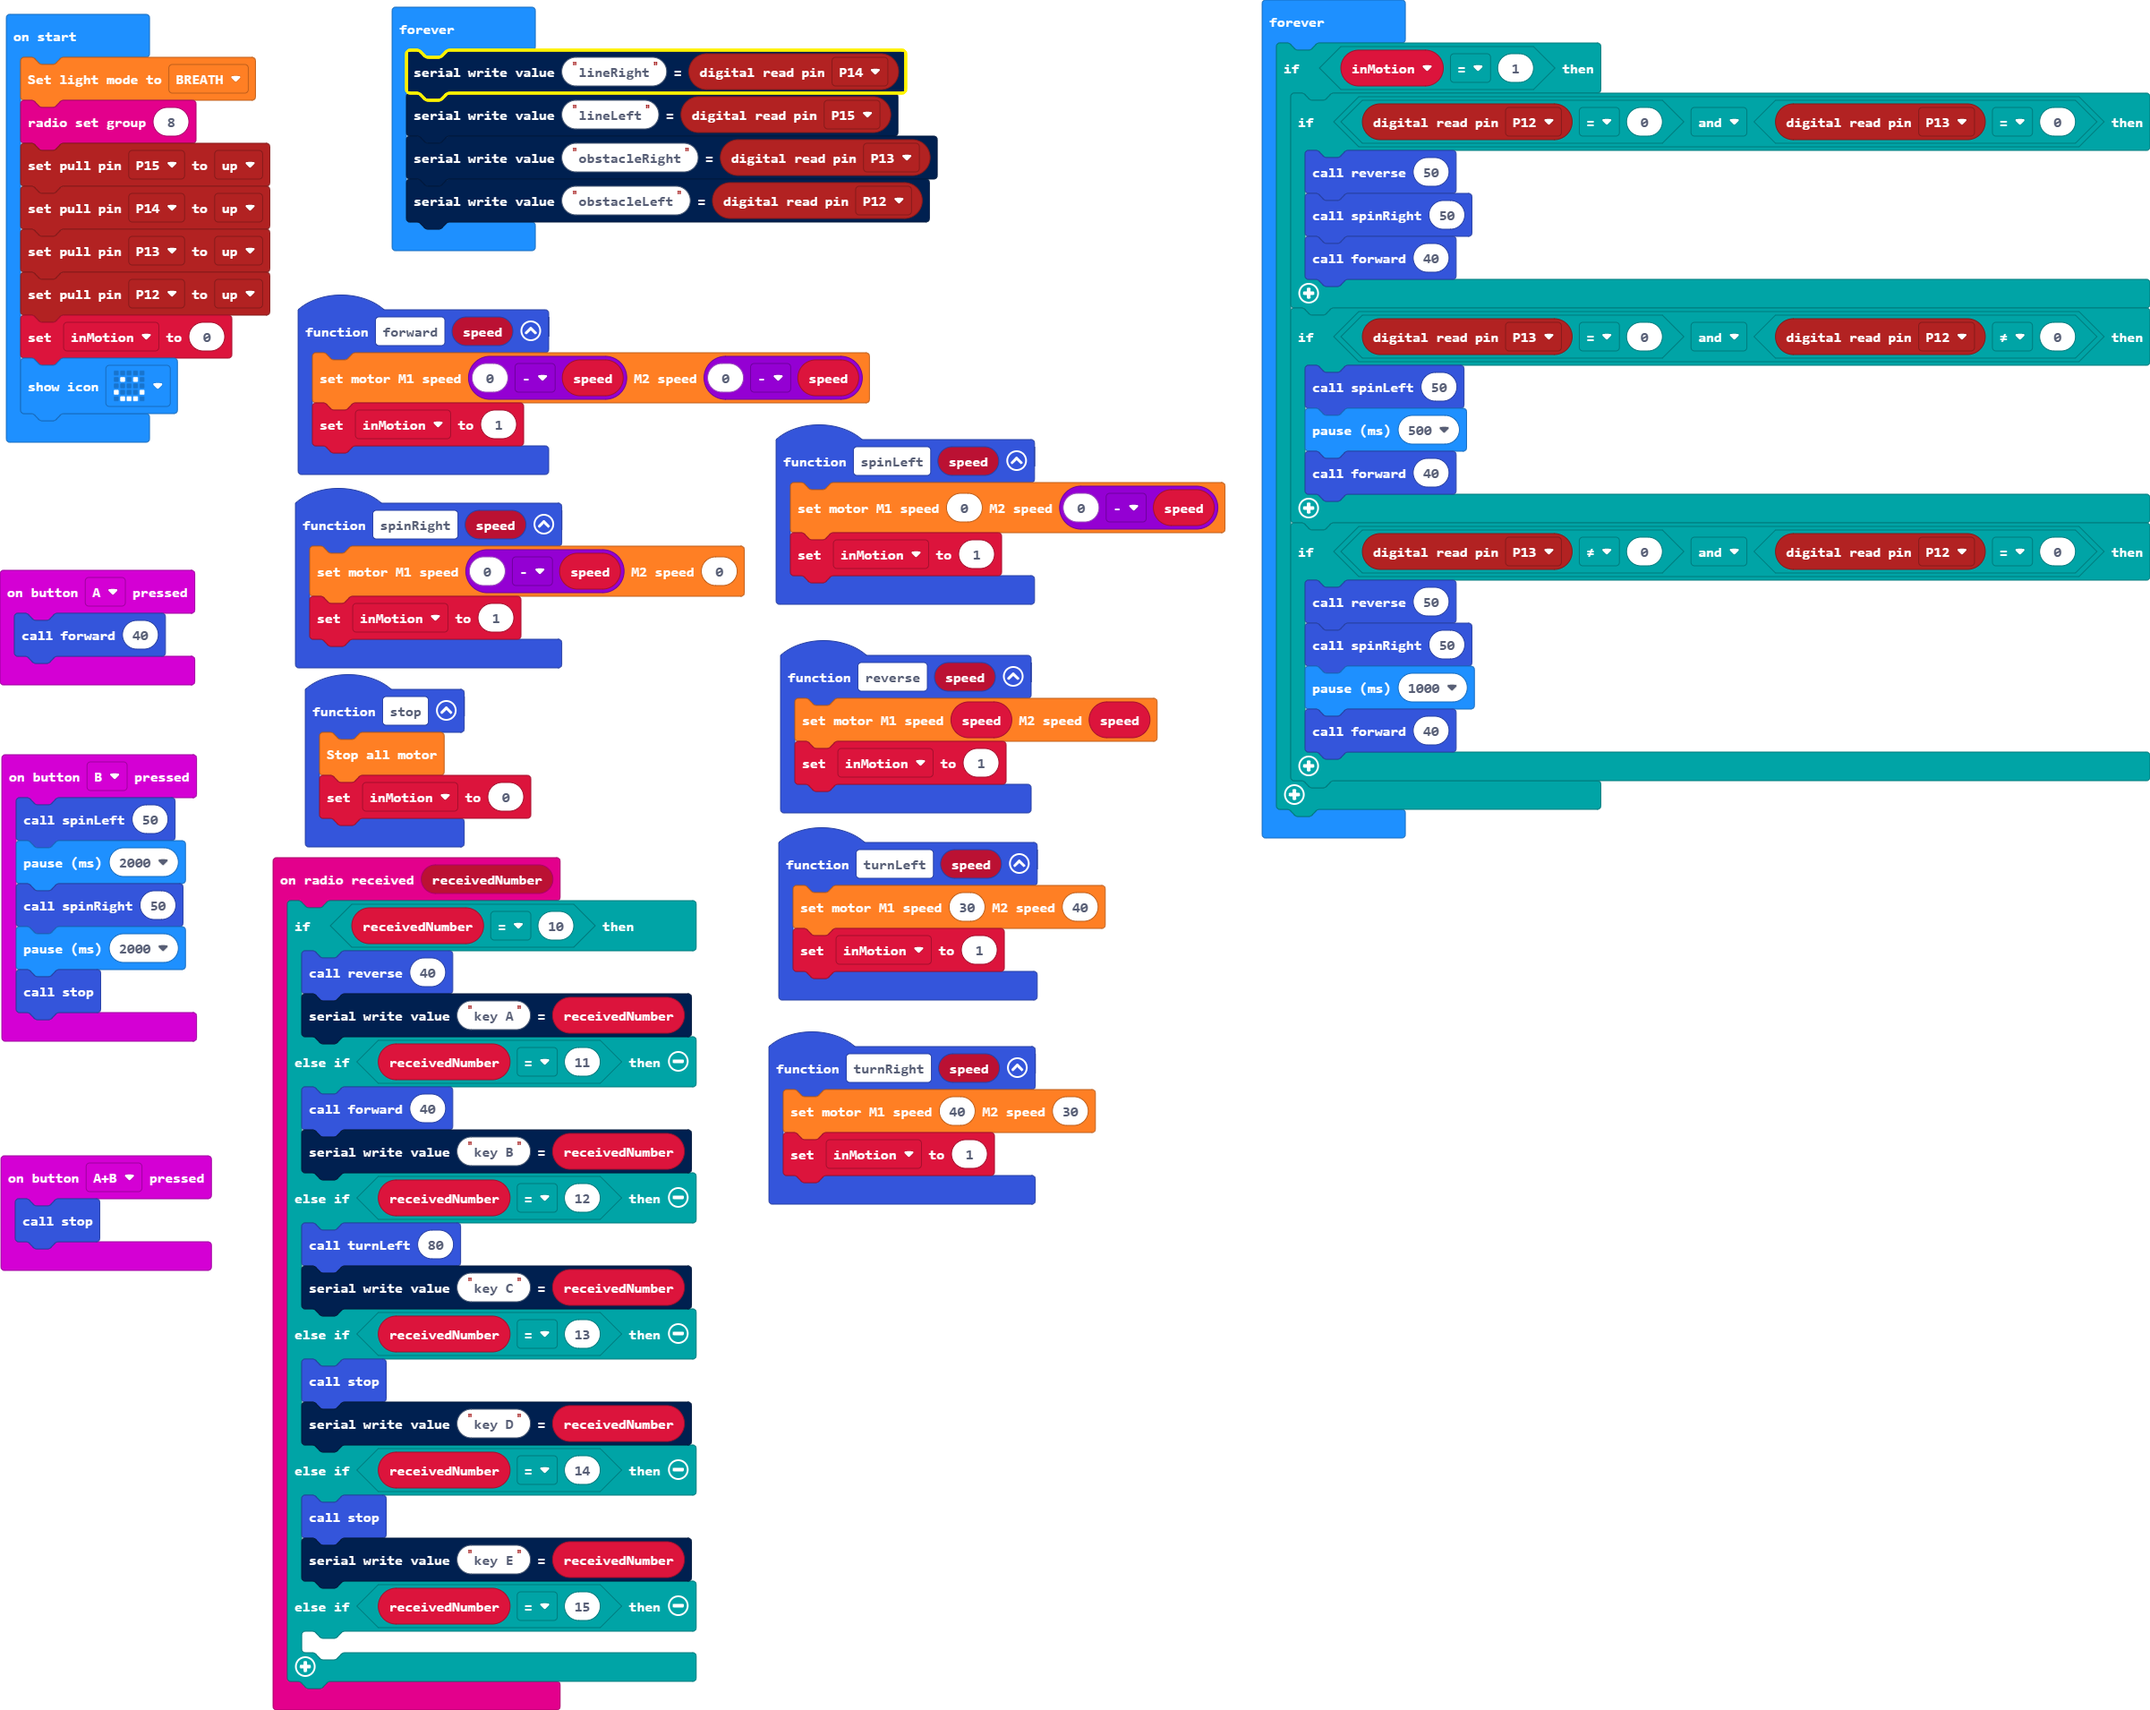
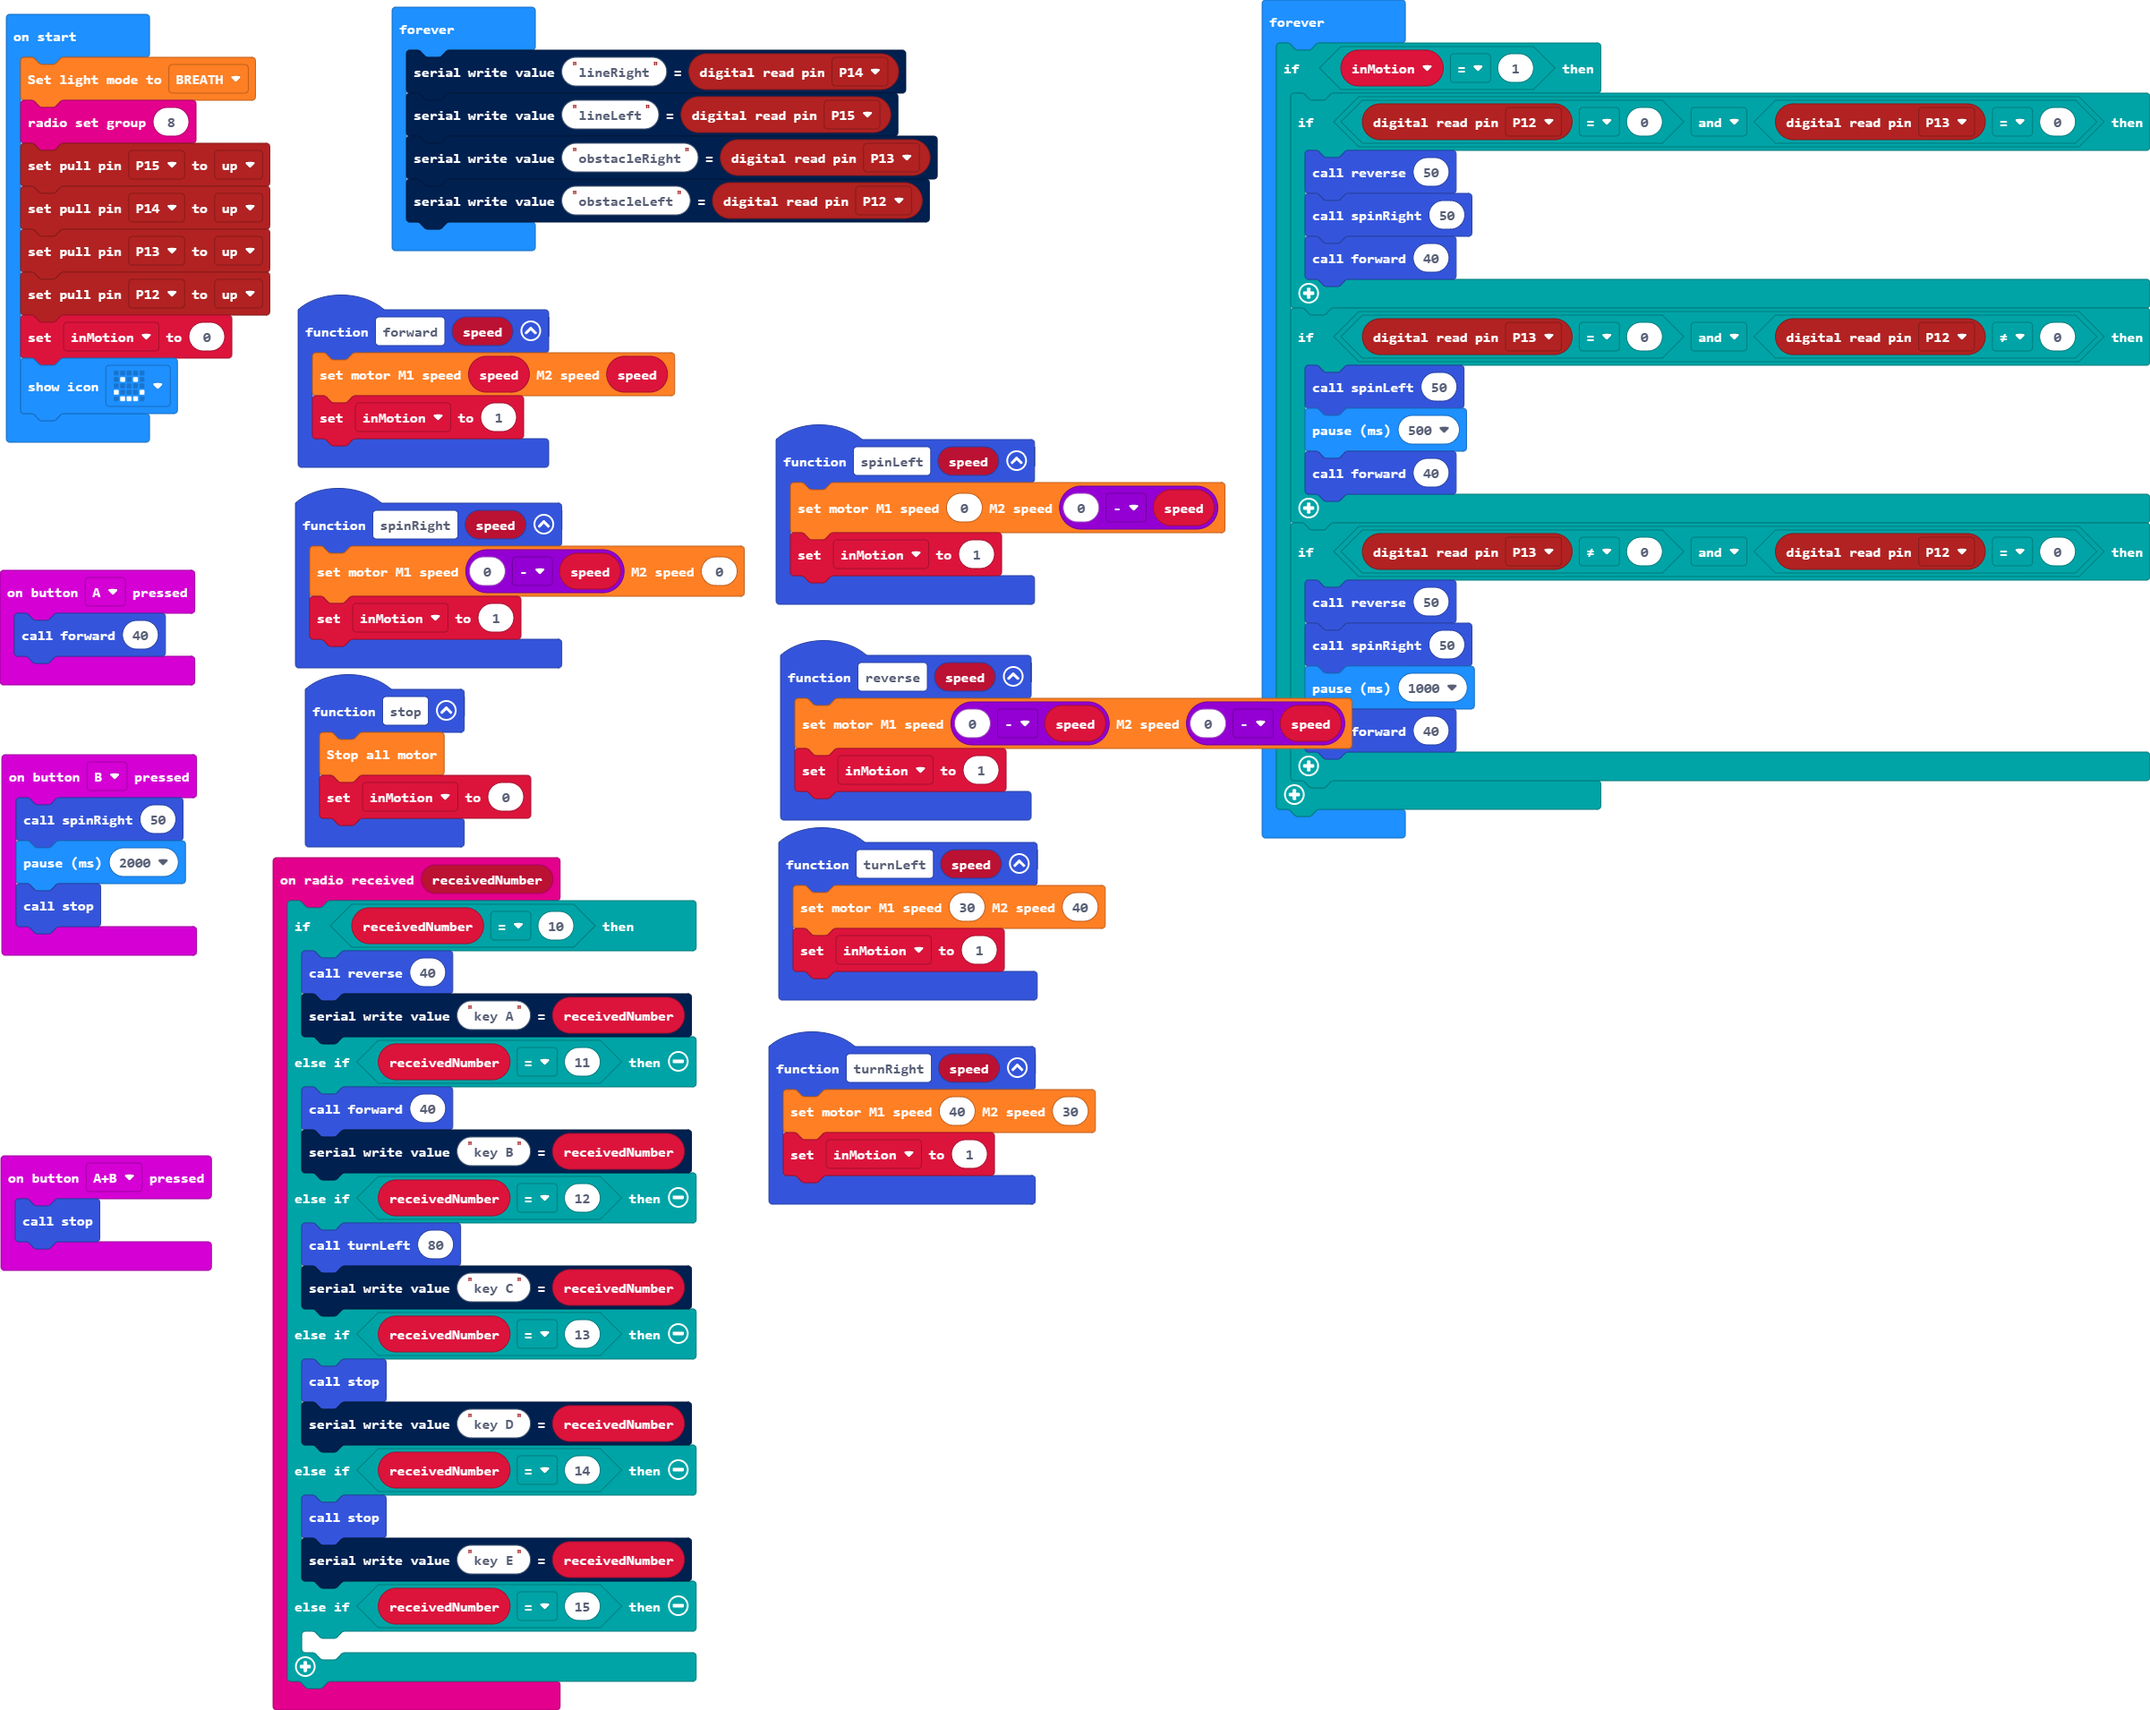
Update main.blocks, main.ts

diff --git a/main.ts b/main.ts
@@ -34,7 +34,7 @@ function spinLeft (speed: number) {
     inMotion = 1
 }
 function reverse (speed: number) {
-    wuKong.setAllMotor(speed, speed)
+    wuKong.setAllMotor(0 - speed, 0 - speed)
     inMotion = 1
 }
 function turnRight (speed: number) {
@@ -45,8 +45,6 @@ input.onButtonPressed(Button.AB, function () {
     stop()
 })
 input.onButtonPressed(Button.B, function () {
-    spinLeft(50)
-    basic.pause(2000)
     spinRight(50)
     basic.pause(2000)
     stop()
@@ -56,7 +54,7 @@ function spinRight (speed: number) {
     inMotion = 1
 }
 function forward (speed: number) {
-    wuKong.setAllMotor(0 - speed, 0 - speed)
+    wuKong.setAllMotor(speed, speed)
     inMotion = 1
 }
 let inMotion = 0
